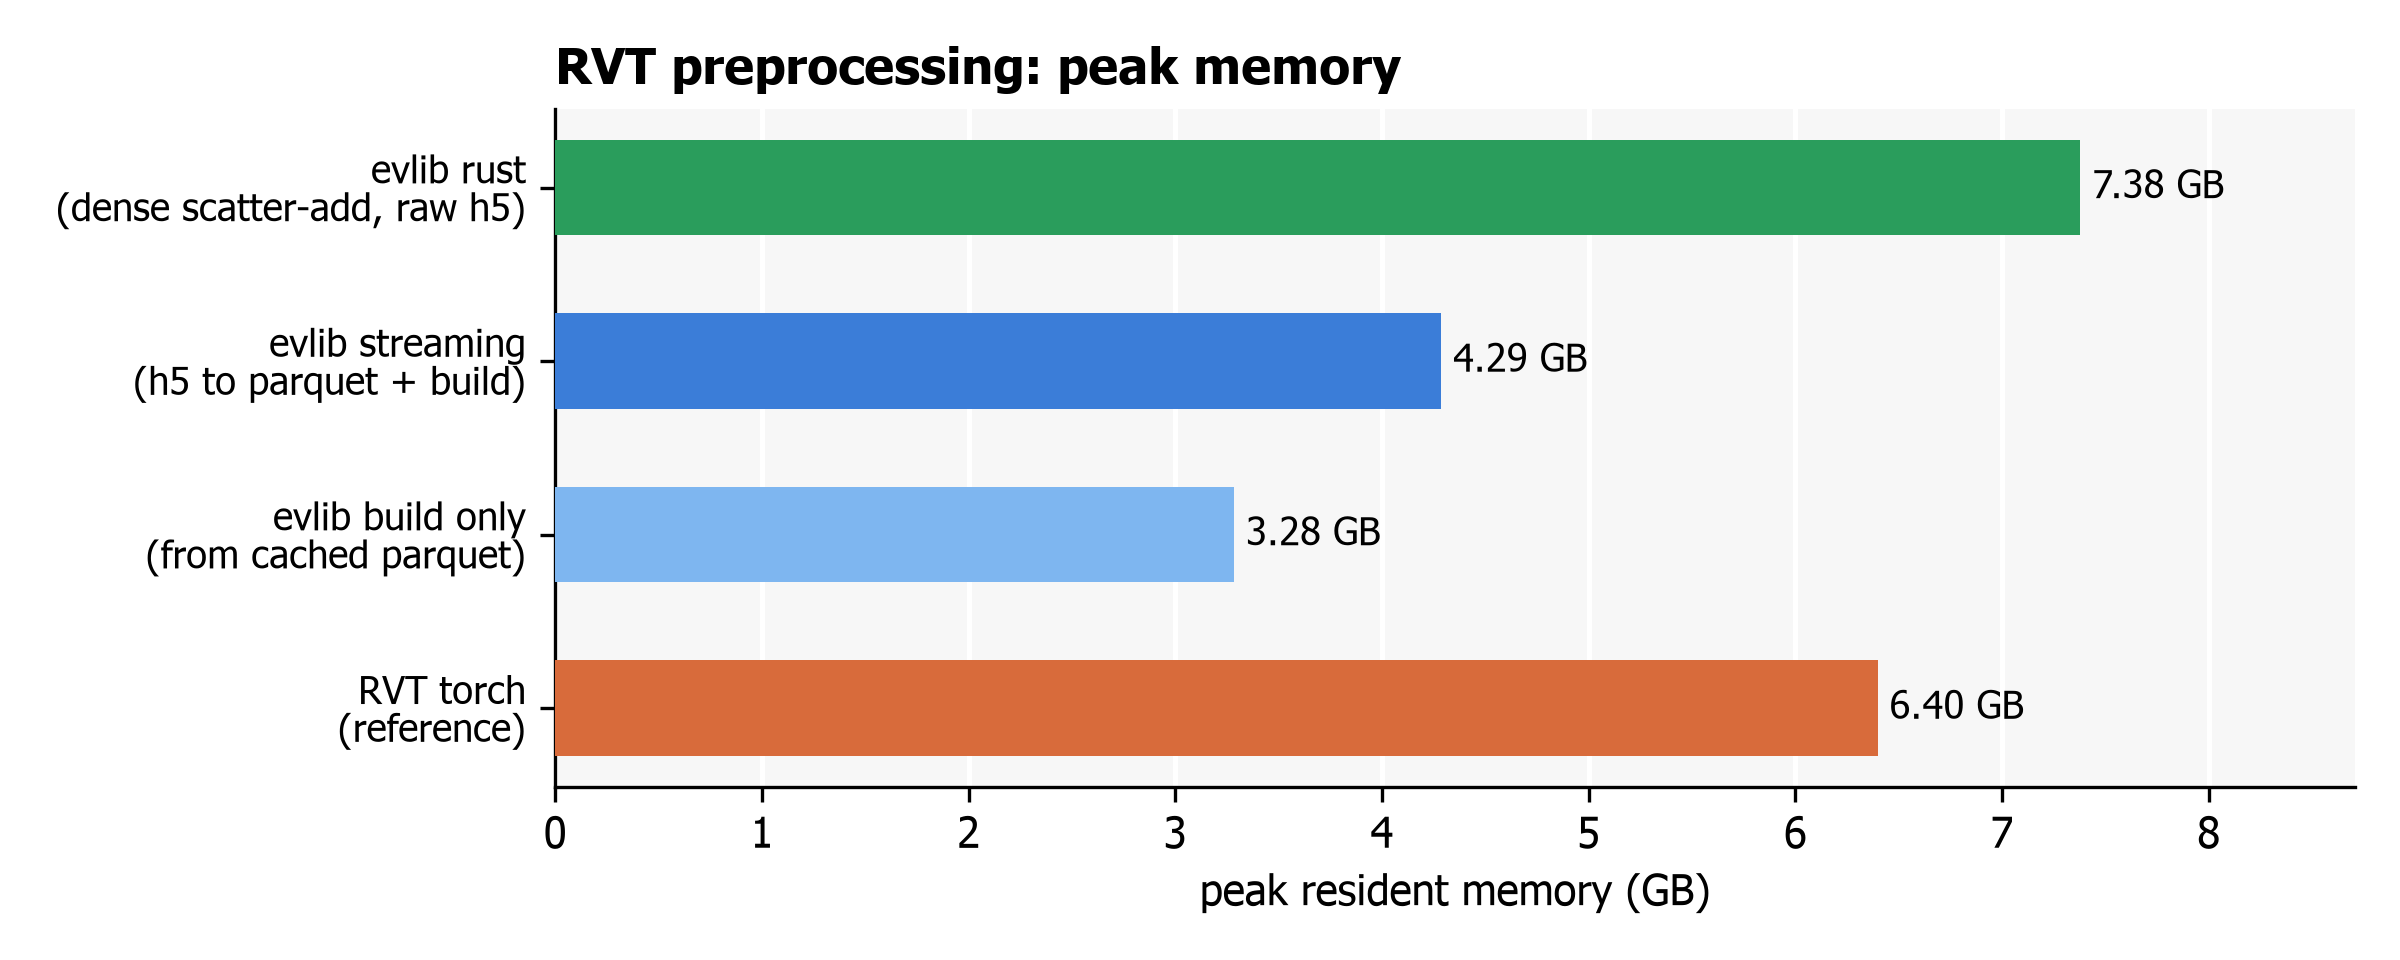
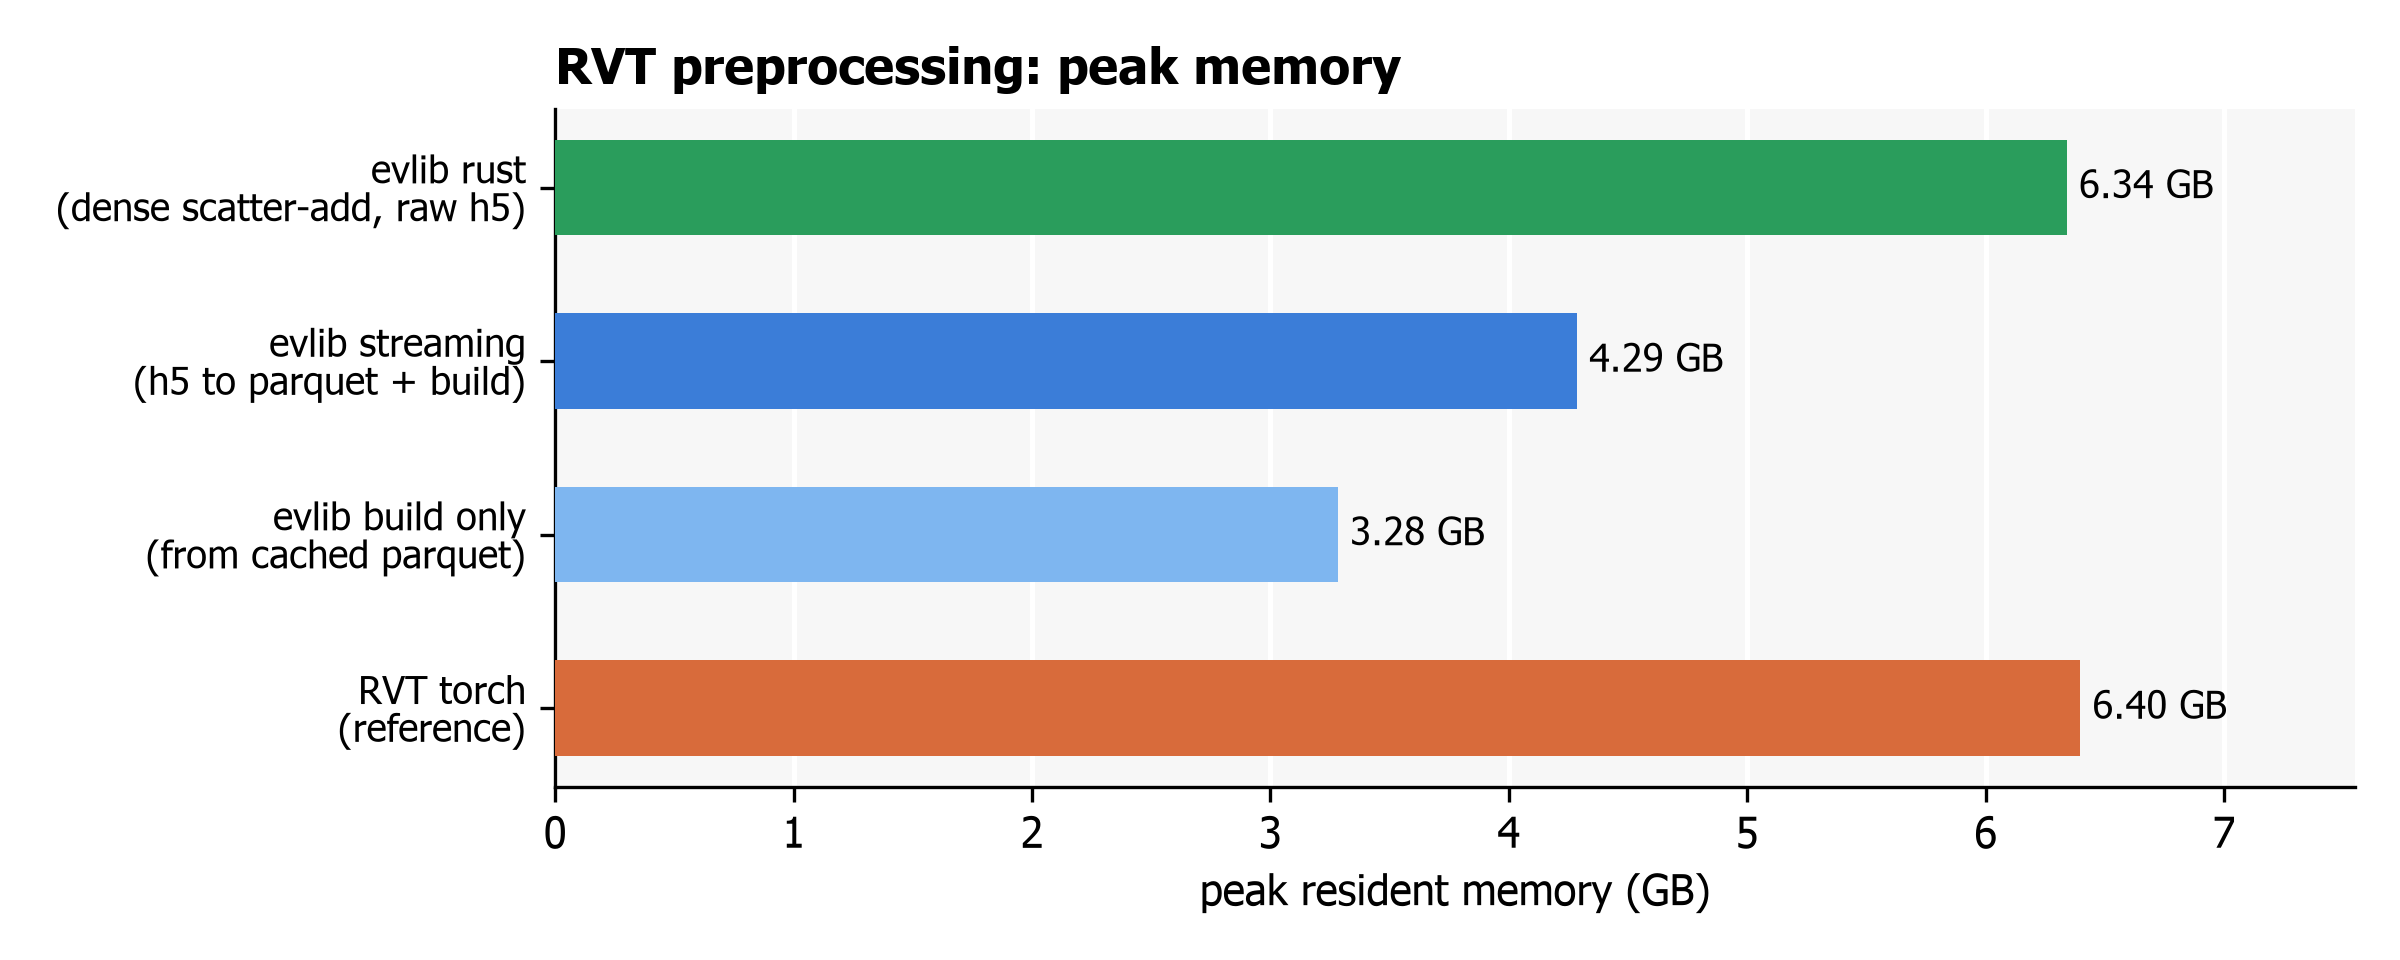
perf(rvt): hold global time array as uint32 in Rust backend to undercut torch on memory
The Rust scatter-add backend held the global corrected time array as int64 (~4.3 GB for
540M events) for the window-boundary searchsorted, putting peak memory above torch. The raw
h5 timestamps are uint32 and fit exactly (microseconds, up to ~71 minutes), so holding them
as uint32 halves that array to ~2.16 GB and drops peak from 7.38 GB to 6.34 GB, just under
RVT torch (6.40 GB). The Rust backend now beats torch on both wall-clock (1.5x) and memory.
Output remains bit-identical (acceptance gate passes). Benchmark plots and README updated.

diff --git a/python/evlib/rvt/pipeline.py b/python/evlib/rvt/pipeline.py
@@ -62,19 +62,19 @@ def _process_sequence_rust(
 
     with h5py.File(str(in_h5), "r") as f:
         grp = f[dataset_group]
-        # Read the raw time column into a single preallocated int64 buffer in chunks and
-        # correct it to non-decreasing in place. Holding one int64 copy (~4.3 GB for 540M
-        # events) is unavoidable for the global searchsorted, but chunked reads keep the
-        # transient (native-dtype) read buffer small instead of doubling peak memory by
-        # materialising the whole raw column before the dtype cast.
+        # Read the raw time column into a single preallocated uint32 buffer in chunks and
+        # correct it to non-decreasing in place. The global searchsorted needs the whole time
+        # column resident, but uint32 (the raw h5 dtype, ~2.16 GB for 540M events) holds the
+        # microsecond timestamps exactly (up to ~71 minutes) and halves the footprint versus an
+        # int64 copy, matching RVT's own memory profile. The small per-batch slice is cast to
+        # int64 only where the Rust function needs it.
         t_ds = grp["t"]
         n_total = t_ds.shape[0]
-        t_full = np.empty(n_total, dtype=np.int64)
+        t_full = np.empty(n_total, dtype=np.uint32)
         chunk = 16_000_000
         for c0 in range(0, n_total, chunk):
             c1 = min(c0 + chunk, n_total)
             t_full[c0:c1] = t_ds[c0:c1]
-        assert t_full[0] >= 0
         np.maximum.accumulate(t_full, out=t_full)
         # RVT window slices over the global, corrected, non-decreasing time array.
         starts = np.searchsorted(t_full, grid - delta_t_us, side="left")
@@ -87,7 +87,7 @@ def _process_sequence_rust(
             ev_hi = int(ends[b])
             if ev_hi <= ev_lo:
                 continue
-            t_batch = t_full[ev_lo:ev_hi]
+            t_batch = np.asarray(t_full[ev_lo:ev_hi], dtype=np.int64)
             x_batch = np.asarray(grp["x"][ev_lo:ev_hi], dtype=np.int64)
             y_batch = np.asarray(grp["y"][ev_lo:ev_hi], dtype=np.int64)
             p_batch = np.asarray(grp["p"][ev_lo:ev_hi], dtype=np.int64)

diff --git a/benchmarks/README.md b/benchmarks/README.md
@@ -59,25 +59,25 @@ Measured on this machine (macOS, CPU), medians over 3 repeats:
 
 | pipeline | median time | peak memory |
 | --- | --- | --- |
-| evlib rust (dense scatter-add, raw h5) | 15.6 s | 7.38 GB |
+| evlib rust (dense scatter-add, raw h5) | 15.7 s | 6.34 GB |
 | evlib streaming (full) | 58.5 s | 4.29 GB |
 | evlib build only | 28.2 s | 3.28 GB |
 | RVT torch (reference) | 23.4 s | 6.40 GB |
 
 - **Time**: the **Rust dense scatter-add backend is about 1.5x faster than RVT's torch
-  reference** (15.6 s vs 23.4 s median) on CPU, and roughly 3.7x faster than the full
+  reference** (15.7 s vs 23.4 s median) on CPU, and roughly 3.7x faster than the full
   Polars streaming pipeline. It wins by skipping the h5 to Parquet conversion entirely
   (it reads the raw h5 directly) and by replacing the Polars hash group-by with a flat
   scatter-add into a preallocated dense buffer, which is the same algorithm torch uses but
   without torch's per-window tensor allocation overhead.
-- **Memory**: the Rust backend uses **1.15x more** peak memory than RVT (7.38 GB vs
-  6.40 GB). It holds one int64 copy of the global corrected time array (~4.3 GB for
-  540 M events) for the global `searchsorted`, which is the dominant fixed cost; the
-  per-batch event slices and dense output buffers are small and do not grow with sequence
-  length, so memory is bounded. This is an honest trade: the Rust path buys a 1.5x speedup
-  at a modest memory premium over torch. The Polars backends still use about 1.5x less
-  peak memory than both (4.29 GB full, 3.28 GB build-only) by streaming windowed Parquet
-  batches, at the cost of being slower.
+- **Memory**: the Rust backend also edges out RVT, using **slightly less** peak memory
+  (6.34 GB vs 6.40 GB). It holds one uint32 copy of the global corrected time array
+  (~2.16 GB for 540 M events, the raw h5 dtype) for the global `searchsorted`, which is the
+  dominant fixed cost and matches RVT's own time-array footprint; the per-batch event slices
+  and dense output buffers are small and do not grow with sequence length, so memory is
+  bounded. So the Rust backend wins on both time and memory. The Polars backends use about
+  1.5x less peak memory still (4.29 GB full, 3.28 GB build-only) by streaming windowed
+  Parquet batches, at the cost of being slower.
 - The default backend remains the Polars streaming path; the Rust scatter-add backend is
   opt-in via `backend="rust"`.
 

diff --git a/benchmarks/out/rvt_pipeline_bench.md b/benchmarks/out/rvt_pipeline_bench.md
@@ -6,13 +6,13 @@ shape (1198, 20, 360, 640) uint8).
 
 | pipeline | min (s) | median (s) | max (s) | peak RSS (GB) |
 | --- | --- | --- | --- | --- |
-| evlib rust (dense scatter-add, raw h5) | 15.52 | 15.60 | 15.82 | 7.38 |
+| evlib rust (dense scatter-add, raw h5) | 15.69 | 15.72 | 15.87 | 6.34 |
 | evlib streaming (h5 to parquet + build) | 58.33 | 58.45 | 60.28 | 4.29 |
 | evlib build only (from cached parquet) | 27.99 | 28.21 | 28.24 | 3.28 |
 | RVT torch (reference) | 22.24 | 23.36 | 23.71 | 6.40 |
 
-evlib rust backend is 1.50x faster than RVT torch reference (15.6s vs 23.4s median).
-evlib rust backend uses 1.15x more peak memory than RVT torch reference (7.38 GB vs 6.40 GB).
+evlib rust backend is 1.49x faster than RVT torch reference (15.7s vs 23.4s median).
+evlib rust backend uses 1.01x less peak memory than RVT torch reference (6.34 GB vs 6.40 GB).
 evlib full pipeline is 2.50x slower than RVT torch reference (58.5s vs 23.4s median).
 evlib build-only (cached parquet) is 1.21x slower than RVT torch reference (28.2s vs 23.4s median).
 evlib full pipeline uses 1.49x less peak memory than RVT torch reference (4.29 GB vs 6.40 GB).
